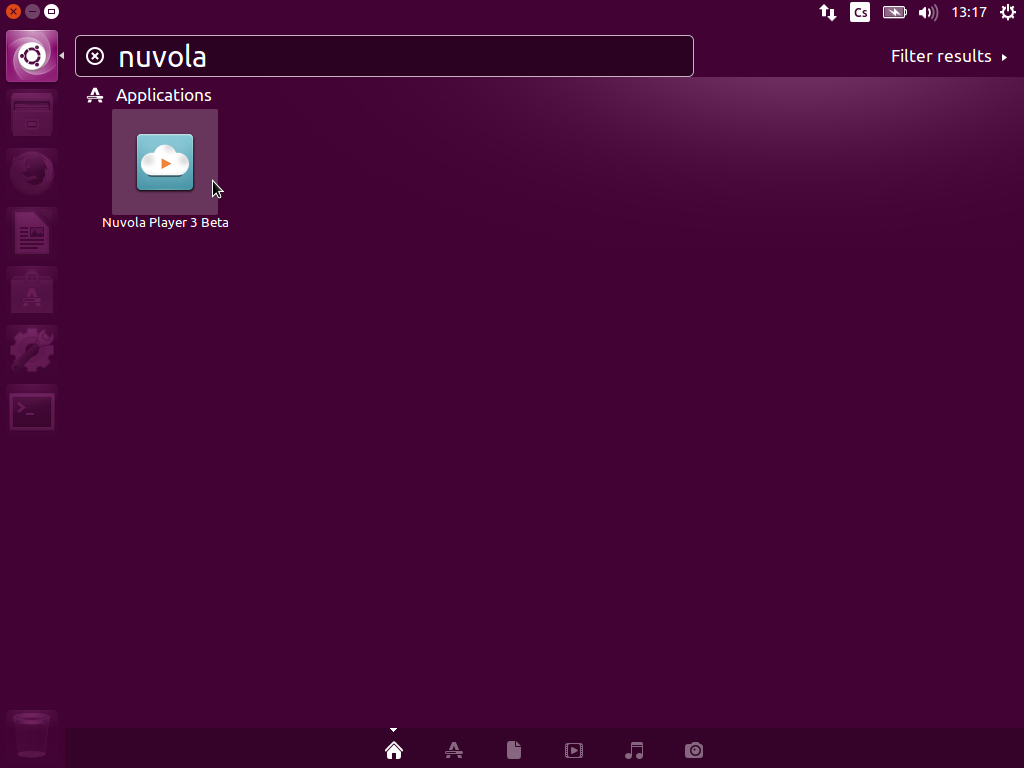
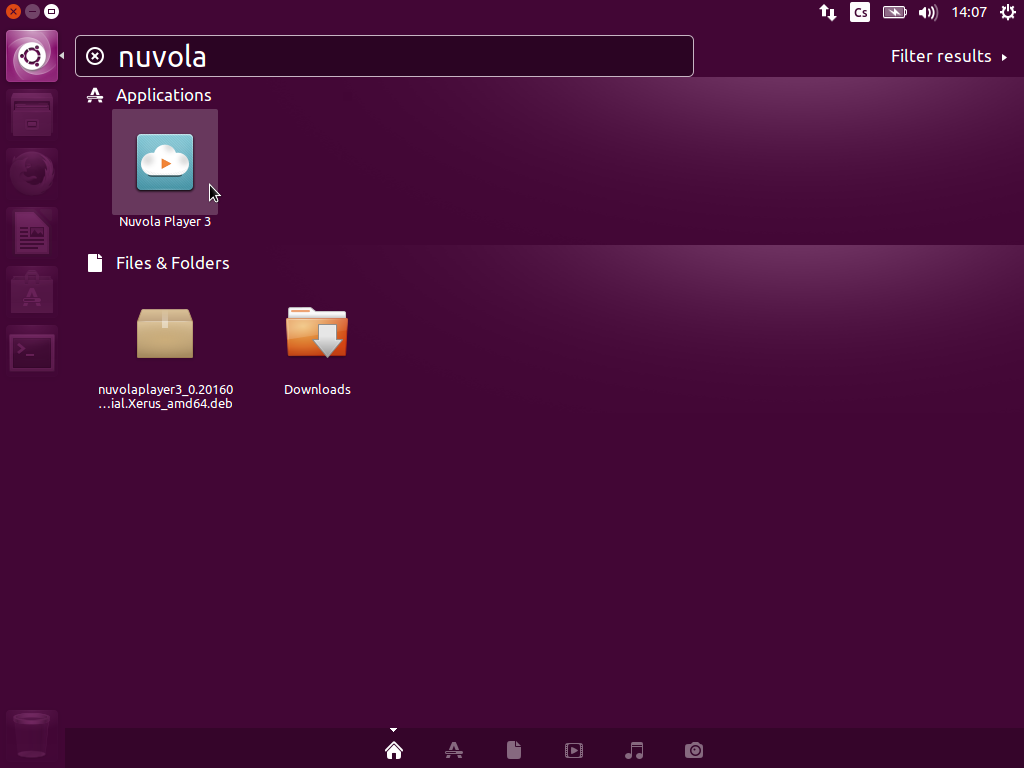
All-in-one Nuvola Player Bundles for Ubuntu/Debian

diff --git a/content/pages/3.0/install-ubuntu.md b/content/pages/3.0/install-ubuntu.md
@@ -14,18 +14,41 @@ Description: Nuvola Player 3.0 is the first release of the third generation of a
 Choose Installation Method {: #install}
 ==========================
 
-There are two ways how to install Nuvola Player on your system. Choose the one which suits you best.
+There are three ways how to install Nuvola Player on your system. Choose the one which suits you best.
 
-1.  [User-friendly graphical installation](#installer): Users who are not friends with a terminal
-    can take advantage of an easy-to-use graphical installer.
-    **This method is recommended to less experienced users.**
+  1. [All-in-one Nuvola Player Bundle](#bundle): A single package that bundles the core application
+     as well as integration scripts of streaming services. Upon installation, all components are
+     updated independently. **This method is recommended to less experienced users.**
+  2. [User-friendly graphical installation](#installer): Users who are not friends with a terminal
+     can take advantage of an easy-to-use graphical installer.
+     **This method is recommended to less experienced users if installation of the Nuvola Player Bundle fails.**
 
-2.  [Manual installation from terminal](./manual-installation.html): Power users who are excellent in command-line kung-fu can just add
-    [the Nuvola Player Repository](https://tiliado.eu/nuvolaplayer/repository/) manually and install
-    Nuvola Player using common package management tools of your linux distribution. Then skip to the
-    section [Check format support](#format-support).
-    **This method is not recommended to less experienced users. Any mistake can break your system.**
+  3. [Manual installation from terminal](./manual-installation.html):
+     Power users who are excellent in command-line kung-fu can just add
+     [the Nuvola Player Repository](https://tiliado.eu/nuvolaplayer/repository/) manually and install
+     Nuvola Player using common package management tools of your linux distribution. Then skip to the
+     section [Check format support](#format-support).
+     **This method is not recommended to less experienced users. Any mistake can break your system.**
 
+All-in-one Nuvola Player Bundle {: #bundle}
+===============================
+
+ 1. Download [All-in-one Nuvola Player Bundle](https://github.com/tiliado/nuvolaplayer/releases/tag/3.0.3).
+    Note: Choose correct distribution and architecture (i386 for 32-bit processors and amd64 for 64-bit ones).
+ 2. Open the bundle package with the Ubuntu Software application and install the package.
+    If the installation is not successful, try the [User-Friendly Graphical Installation](#installer) procedure
+    as it is more robust and can solve conflicts to a certain degree.
+ 3. [Check format support status](#format-support).
+
+ Gallery
++[Download All-in-one Nuvola Player Bundle](images/3.0/installation/ubuntu/firefox_download_bundle.png|256x192)
++[Open the downloaded bundle](images/3.0/installation/ubuntu/firefox_open_bundle.png|256x192)
++[Open the bundle with the Ubuntu Software application](images/3.0/installation/debian/bundle_open_with_gdebi.png|256x192)
++[Install the bundle](images/3.0/installation/ubuntu/install_bundle.png|256x192)
++[Enter your password to confirm installation.](images/3.0/installation/ubuntu/install_bundle_auth.png|256x192)
++[Close the Ubuntu Software application.](images/3.0/installation/ubuntu/bundle_close.png|256x192)
++[Click Ubuntu button in the top left corner to open Unity Dash and launch Nuvola Player 3.](images/3.0/unity/unity_dash_nuvola.png|256x192)
++[Nuvola Player 3 services selector window.](images/3.0/unity/unity_nuvola_selector_launch_deezer.png|256x192)
 
 User-Friendly Graphical Installation {: #installer}
 ====================================
@@ -78,8 +101,7 @@ Add Nuvola Player Repository
 +[Review the summary and click Install button.](images/3.0/unity/unity_installer_summary.png|256x192)
 +[Enter your password to confirm installation.](images/3.0/unity/unity_installer_install_auth.png|256x192)
 +[If installation is successful, click Quit button.](images/3.0/unity/unity_installer_done_quit.png|256x192)
-+[Click Ubuntu button in the top left corner to open Unity Dash.](images/3.0/unity/unity_open_dash.png|256x192)
-+[Launch Nuvola Player 3.](images/3.0/unity/unity_dash_nuvola.png|256x192)
++[Click Ubuntu button in the top left corner to open Unity Dash and launch Nuvola Player 3.](images/3.0/unity/unity_dash_nuvola.png|256x192)
 +[Nuvola Player 3 services selector window.](images/3.0/unity/unity_nuvola_selector_launch_deezer.png|256x192)
 
 Check Format Support {: #format-support}

diff --git a/content/pages/3.0/install-debian.md b/content/pages/3.0/install-debian.md
@@ -14,18 +14,41 @@ Description: Nuvola Player 3.0 is the first release of the third generation of a
 Choose Installation Method {: #install}
 ==========================
 
-There are two ways how to install Nuvola Player on your system. Choose the one which suits you best.
+There are three ways how to install Nuvola Player on your system. Choose the one which suits you best.
 
-1.  [User-friendly graphical installation](#installer): Users who are not friends with a terminal
-    can take advantage of an easy-to-use graphical installer.
-    **This method is recommended to less experienced users.**
+  1. [All-in-one Nuvola Player Bundle](#bundle): A single package that bundles the core application
+     as well as integration scripts of streaming services. Upon installation, all components are
+     updated independently. **This method is recommended to less experienced users.**
+  2. [User-friendly graphical installation](#installer): Users who are not friends with a terminal
+     can take advantage of an easy-to-use graphical installer.
+     **This method is recommended to less experienced users if installation of the Nuvola Player Bundle fails.**
 
-2.  [Manual installation from terminal](./manual-installation.html): Power users who are excellent in command-line kung-fu can just add
-    [the Nuvola Player Repository](https://tiliado.eu/nuvolaplayer/repository/) manually and install
-    Nuvola Player using common package management tools of your linux distribution. Then skip to the
-    section [Check format support](#format-support).
-    **This method is not recommended to less experienced users. Any mistake can break your system.**
+  3. [Manual installation from terminal](./manual-installation.html):
+     Power users who are excellent in command-line kung-fu can just add
+     [the Nuvola Player Repository](https://tiliado.eu/nuvolaplayer/repository/) manually and install
+     Nuvola Player using common package management tools of your linux distribution. Then skip to the
+     section [Check format support](#format-support).
+     **This method is not recommended to less experienced users. Any mistake can break your system.**
 
+All-in-one Nuvola Player Bundle {: #bundle}
+===============================
+
+ 1. Download [All-in-one Nuvola Player Bundle](https://github.com/tiliado/nuvolaplayer/releases/tag/3.0.3).
+    Note: Choose correct distribution and architecture (i386 for 32-bit processors and amd64 for 64-bit ones).
+ 2. Open the bundle package with GDebi package installation tool and install the package.
+    If the installation is not successful, try the [User-Friendly Graphical Installation](#installer) procedure
+    as it is more robust and can solve conflicts to a certain degree.
+ 3. [Check format support status](#format-support).
+
+ Gallery
++[Download All-in-one Nuvola Player Bundle](images/3.0/installation/debian/firefox_download_bundle.png|256x192)
++[Open the directory where the bundle has been downloaded](images/3.0/installation/debian/firefox_open_bundle_folder.png|256x192)
++[Open the bundle with GDebi package installation tool](images/3.0/installation/debian/bundle_open_with_gdebi.png|256x192)
++[Install the bundle](images/3.0/installation/debian/gdebi_install_bundle.png|256x192)
++[Enter your password to confirm installation.](images/3.0/installation/debian/gdebi_install_bundle_auth.png|256x192)
++[Close the GDebi package installation tool.](images/3.0/installation/debian/gdebi_bundle_close.png|256x192)
++[Click Activities button in the top left corner to open GNOME Overview and launch Nuvola Player 3.](images/3.0/gnome/debian_activities_nuvola.png|256x192)
++[Nuvola Player 3 services selector window.](images/3.0/gnome/debian_selector_launch_deezer.png|256x192)
 
 User-Friendly Graphical Installation {: #installer}
 ====================================
